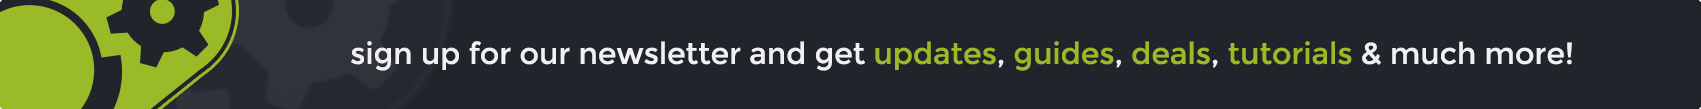
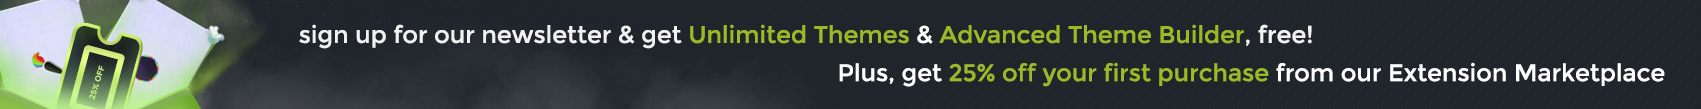
Changes for v1.1.3 included in readme changelog.
git-svn-id: https://plugins.svn.wordpress.org/popup-maker/trunk@1042398 b8457f37-d9ea-0310-8a92-e5e31aec5664

diff --git a/includes/admin/welcome/about.php b/includes/admin/welcome/about.php
@@ -15,11 +15,12 @@ function popmake_about_page() {
 			<div class="feature-section">
 				<h4><?php _e( 'Target specific users for your popups!', 'popup-maker' );?></h4>	
 				<p><?php printf( __( 'Our %sTargeting Conditions%s feature allows you to tailor your popups to specific users by giving you the ability to use popups exactly where you want within your website.', 'popup-maker' ), '<strong>', '</strong>'); ?></p>
+				<h4><?php _e( 'Destroy Old Conversion Rates with Auto Open!', 'popup-maker' );?></h4>	
+				<p><?php printf( __( 'One of the absolute best ways to market your most valuable and precious content, our %sAuto Open Popups%s Feature allows you to choose the delay before opening, when the cookie is set, how long the cookie will last, even reset cookies for a popup.', 'popup-maker' ), '<strong>', '</strong>'); ?></p>
 				<h4><?php _e( 'Drive Conversions!', 'popup-maker' );?></h4>	
 				<p>
 					<?php printf(
-						__( 'Use %sAuto Open%s, %sScroll Triggered%s & %sExit Intent Popup%s Extensions to enhance your popups’ effectiveness and easily convert users into cash.', 'popup-maker' ),
-						'<a href="https://wppopupmaker.com/extensions/auto-open-popups?utm_source=WP+Welcome+About&utm_medium=Text+Link&utm_campaign=Auto+Open" target="_blank">', '</a>',
+						__( 'Use %sScroll Triggered%s & %sExit Intent Popup%s Extensions to enhance your popups’ effectiveness and easily convert users into cash.', 'popup-maker' ),
 						'<a href="https://wppopupmaker.com/extensions/scroll-triggered-popups?utm_source=WP+Welcome+About&utm_medium=Text+Link&utm_campaign=Scroll+Triggered" target="_blank">', '</a>',
 						'<a href="https://wppopupmaker.com/extensions/exit-intent-popups?utm_source=WP+Welcome+About&utm_medium=Text+Link&utm_campaign=Exit+Intent" target="_blank">', '</a>'
 					); ?>

diff --git a/includes/admin/admin-setup.php b/includes/admin/admin-setup.php
@@ -26,12 +26,12 @@ add_action('admin_header', 'popmake_admin_header');
 
 function popmake_admin_notice() {
 	if(popmake_is_admin_page()) {
-		if(!get_user_meta( get_current_user_id(), '_popmake_dismiss_optin_newsletter_promo_banner', true )) {?>
+		if(!get_user_meta( get_current_user_id(), '_popmake_dismiss_optin_newsletter_promo_banner_v2', true )) {?>
 			<div class="popmake-optin popmake-newsletter-optin">
 				<a href="https://wppopupmaker.com/newsletter-sign-up?utm_source=Popmake+WP+Admin&utm_medium=Notification+Banner&utm_campaign=Newsletter+Signup" target="_blank" class="newsletter-banner">
 					<img src="<?php echo POPMAKE_URL; ?>/assets/images/admin/newsletter-banner.png"/>
 				</a>
-				<a class="popmake-optin-dismiss" data-optin-name="newsletter_promo_banner" data-optin-type="user"><?php _e( 'No Thanks', 'popup-maker' ); ?></a>
+				<a class="popmake-optin-dismiss" data-optin-name="newsletter_promo_banner_v2" data-optin-type="user"><?php _e( 'No Thanks', 'popup-maker' ); ?></a>
 			</div><?php
 		}
 		do_action('popmake_admin_notice');

diff --git a/includes/admin/extensions/extensions-page.php b/includes/admin/extensions/extensions-page.php
@@ -112,9 +112,8 @@ function popmake_extensions_page() {?>
 					            */
 					            ?>
 				                <span class="action-links">
-				                	<a class="button" target="_blank" href="<?php esc_attr_e($extension->homepage);?>?utm_source=Plugin+Admin&amp;utm_medium=Extensions+Page+Extension+Buttons&amp;utm_campaign=<?php esc_attr_e( str_replace(' ', '+', $extension->name) );?>"><?php _e( 'Coming SOon!', 'popup-maker' );?></a>
+				                	<a class="button" target="_blank" href="<?php esc_attr_e($extension->homepage);?>?utm_source=Plugin+Admin&amp;utm_medium=Extensions+Page+Extension+Buttons&amp;utm_campaign=<?php esc_attr_e( str_replace(' ', '+', $extension->name) );?>"><?php _e( 'Get it instantly!', 'popup-maker' );?></a>
 				                </span>
-					            <!--<a href="<?php echo esc_url($extension->homepage);?>#features" target="_blank"><?php _e( 'View all the features.', 'popup-maker' );?></a>-->
 					        </li>
 					        <?php endforeach;				
 						}?>

diff --git a/includes/admin/welcome/getting-started.php b/includes/admin/welcome/getting-started.php
@@ -75,13 +75,6 @@ function popmake_getting_started_page() {
 						'<a href="https://wppopupmaker.com/extensions/auto-open-popups?utm_source=WP+Welcome+Getting+Started&utm_medium=Text+Link&utm_campaign=Member+Forums" target="_blank">', '</a>'
 					); ?>
 				</p>
-				<h4><?php _e( 'Need a Solution Now?', 'popup-maker' );?></h4>
-				<p><?php
-					printf(
-						__( 'Our <a href="%s" target="_blank">Priority Support Forums</a> are there for customers that need a solution and/or more in-depth assistance immediately.', 'popup-maker' ),
-						'https://wppopupmaker.com/support/pricing?utm_source=WP+Welcome+Getting+Started&utm_medium=Text+Link&utm_campaign=Priority+Support'
-					);?>
-				</p>
 			</div>
 		</div>
 

diff --git a/popup-maker.php b/popup-maker.php
@@ -4,7 +4,7 @@
  * Plugin URI: https://wppopupmaker.com
  * Description: Easily create & style popups with any content. Theme editor to quickly style your popups. Add forms, social media boxes, videos & more. 
  * Author: Daniel Iser
- * Version: 1.1.2
+ * Version: 1.1.3
  * Author URI: https://wppopupmaker.com
  * Text Domain: popup-maker
  * 
@@ -144,7 +144,7 @@ final class Popup_Maker {
 		}
 
 		if ( !defined('POPMAKE_VERSION') ) {
-			define('POPMAKE_VERSION', '1.1.2' );	
+			define('POPMAKE_VERSION', '1.1.3' );	
 		}
 
 		if ( !defined('POPMAKE_DB_VERSION') ) {
